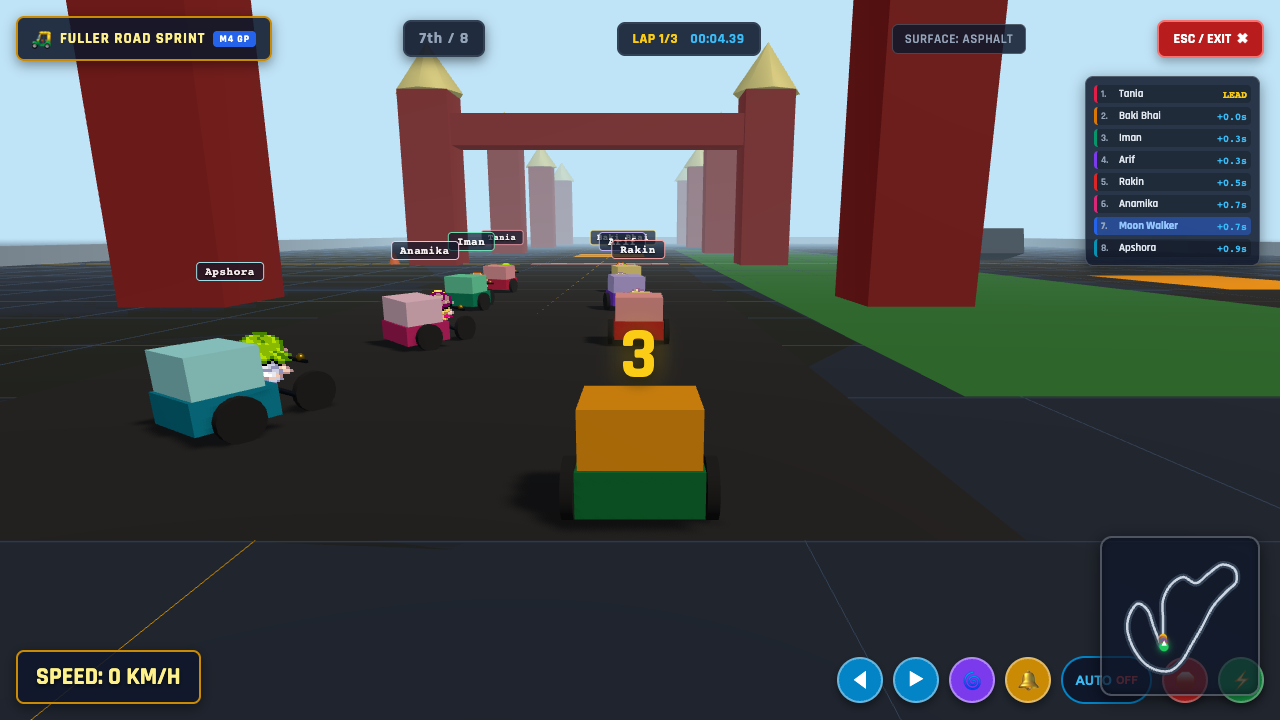
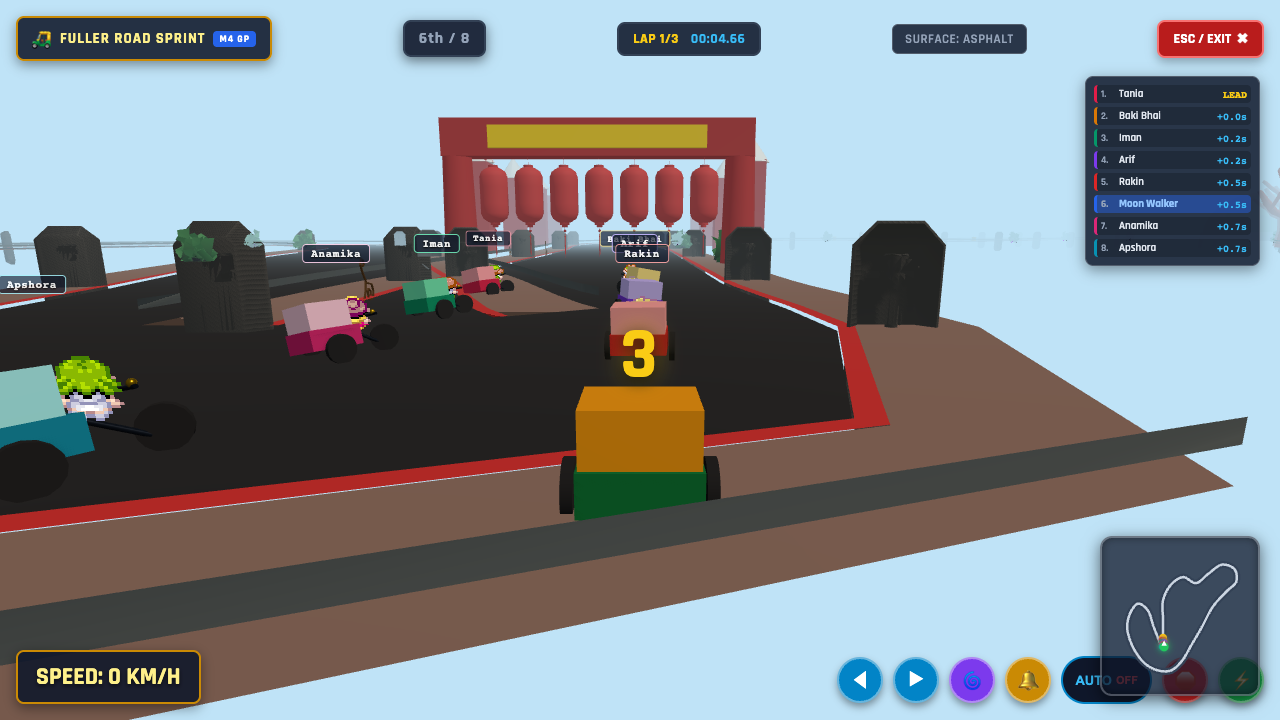
docs(race): record M3.5 performance benchmarks and honest asset provenance (Part A2)

diff --git a/scripts/perf_race_track.js b/scripts/perf_race_track.js
@@ -21,13 +21,13 @@ async function ensureServer() {
 async function startRace(page) {
   await page.waitForFunction(() => !!window.__activeScene, { timeout: 30000 });
   const t0 = Date.now();
-  await page.evaluate((rivals) => {
-    if (rivals && window.__race === undefined) {
-      window.__activeScene.startRickshawRace({ mode: 'quick', difficulty: 'beshi_gorom', seed: 1234 });
-    } else {
-      window.__activeScene.startRickshawRace();
-    }
-  }, RIVALS);
+  await page.evaluate(() => {
+    window.__activeScene.startRickshawRace();
+  });
+  try {
+    const btn = await page.waitForSelector('button:has-text("START RACE!")', { timeout: 4000 });
+    if (btn) await btn.click();
+  } catch (e) {}
   await page.waitForFunction(() => window.__race && window.__race.engine && window.__race.engine.trackRuntime, { timeout: 60000 });
   const loadWallMs = Date.now() - t0;
   const timings = await page.evaluate(() => window.__race.engine.trackRuntime.timings);

diff --git a/src/graphics/ExternalAssetAdapter.ts b/src/graphics/ExternalAssetAdapter.ts
@@ -25,8 +25,8 @@ export class ExternalAssetAdapter {
     for (const [id, spec] of Object.entries(ASSET_SPECS_MANIFEST)) {
       // Only request files from the network if marked as available external files.
       // Unintegrated / shopping list slots instantly bypass network requests and bind fallbacks.
-      // 3D GLB models are lazy-loaded exclusively by Three.js race engine; bypass 2D Phaser image loader.
-      if (!spec.externalPath || !spec.hasExternalFile || spec.externalPath.endsWith('.glb')) continue;
+      // 3D GLB models and all race assets are lazy-loaded exclusively by Three.js race engine; bypass 2D Phaser loader.
+      if (!spec.externalPath || !spec.hasExternalFile || spec.externalPath.startsWith('assets/race/') || spec.externalPath.endsWith('.glb')) continue;
 
       // Do not duplicate load if already loaded in this scene
       if (!scene.textures.exists(`ext-${id}`)) {

diff --git a/docs/rickshaw-race/ASSETS.md b/docs/rickshaw-race/ASSETS.md
@@ -35,29 +35,29 @@
 
 ---
 
-### 3. Fuller Road Sprint — Track Art Provenance Audit (M4 Part A2, REPORT ONLY)
+### 3. Fuller Road Sprint — Track Art Provenance Audit (M3 Baseline vs M3.5 SuperTuxKart Art Pass)
 
-Audit method: read `scripts/race/build-track.mjs` (the only producer of `visual.glb` / `collision.glb`) and the race renderer. **Result: every visual element of the track is PROCEDURAL** (Three.js primitives emitted by an offline script). Nothing is sourced from an external asset pack, contradicting the M3 external-art rule and the wording of ADR 016. The files are small (visual 200.4 kB / 1,316 m lap) precisely because they contain only a handful of boxes, cones and cylinders. No art was replaced in M4 (explicitly out of scope); the shortfalls are catalogued in `ASSET_SHOPPING_LIST.md` and the remediation is ADR 017.
+The track visuals were upgraded in **Milestone 3.5 (Art Pass)** using models and textures imported directly from SuperTuxKart via `scripts/race/stk/` and `scripts/race/dress-track.mjs`. Below is the truthful breakdown separating upstream STK assets from generated procedural geometry:
 
-| Visual element | What actually ships | Where produced | Provenance | Source / original file | Credit |
+| Visual Element | M3 Baseline (Procedural) | M3.5 Shipped Art Pass | Provenance Category | Upstream STK Source / Origin | License |
 | :--- | :--- | :--- | :--- | :--- | :--- |
-| Road surface | Flat ribbon along the spline, single dark `MeshStandardMaterial` (`0x1f2421`), **no centre striping despite the code comment**, fixed 16 m width (ignores per-point spline widths) | `createRoadRibbon()` in `build-track.mjs` | **PROCEDURAL** | — | In-house (MIT) |
-| Curbs | **None** (not present in `visual.glb`) | — | **MISSING** | — | — |
-| Sidewalks / verges | **None**; infield is the hidden collision grass plane / renderer ground | — | **MISSING** | — | — |
-| Barriers / walls | **Collision-only** (`wall_barrier` boxes every ~19 m, **not rendered**, with gaps between posts) | `createWallBarriers()` | **PROCEDURAL (invisible)** | — | In-house (MIT) |
-| Landmark: Curzon Hall | 12 box pillars + cone "domes" + one arch box (`matCurzonBrick`, `matCurzonKiosk`) | `createCurzonPillars()` | **PROCEDURAL** | — | In-house (MIT) |
-| Landmark: TSC rotunda | Cylinder + cone + 6 umbrella cones/poles | `tscRotunda` block | **PROCEDURAL** | — | In-house (MIT) |
-| Trees (Krishnachura) | 7 trunk cylinders + dodecahedron foliage, uniform colour | `avenueTrees` block | **PROCEDURAL** | — | In-house (MIT) |
-| Flyover bridge | 4 pier cylinders; the deck is the road ribbon itself | `bridgePiers` | **PROCEDURAL** | — | In-house (MIT) |
-| Petal boost pads | Emissive amber planes | `matPetalPadVisual` | **PROCEDURAL** | — | In-house (MIT) |
-| Props (cones, signage, crowd, lanterns on poles) | **None** | — | **MISSING** | — | — |
-| Sky | Flat `Color(0xbfe3f7)` background + `FogExp2` | `RaceRenderer.ts` | **PROCEDURAL** | — | In-house (MIT) |
-| Paper lantern (rescue) | **No visual exists** — `RescueSystem` only teleports; "paper-lantern rescue" is a name, not an asset | — | **MISSING** | — | — |
-| Kart | Primitive rickshaw hierarchy | `PlaceholderKart.ts` | **PROCEDURAL** (ADR 013) | — | In-house (MIT) |
-| Race SFX | 8 Kenney `.ogg` samples + `rickshaw_bell.wav` | `public/assets/race/audio/` | **EXTERNAL** | Kenney Racing/Digital Audio packs, project field recording | CC0 (see `ASSET_CREDITS.md`) |
-| Track music | Overworld `game_bgm.mp3` is paused; no per-track music | — | **MISSING** (per-track music is out of scope until later milestone) | — | — |
+| **Road Surface** | Procedural flat ribbon (`0x1f2421`), no striping | Spline-extruded ribbon textured with STK asphalt (`road.jpg`), striped curbs & lane marks | **HYBRID** (Geometry extruded along spline, texture from STK) | `stk-assets/textures/asphalt.png` $\to$ `road.jpg` | CC-BY-SA 3.0 |
+| **Curbs & Sidewalks** | None (invisible) | 0.2m raised curbs and brick sidewalks textured with STK cobblestone (`sidewalk.jpg`) | **HYBRID** (Extruded geometry, STK texture) | `stk-assets/textures/stone_brick.png` $\to$ `sidewalk.jpg` | CC-BY-SA 3.0 |
+| **Safety Guardrails** | Collision-only invisible boxes | Continuous visible tubular guardrail meshes aligned ±0.3m from collision barrier plane | **PROCEDURAL (Generated)** | Extruded along spline | In-house (MIT) |
+| **Crash Barrels** | None | Instanced 3D crash barrels placed at chicane and hairpin apexes (`barrel.glb`) | **EXTERNAL 3D GLB** | Converted from STK `barrel.spm` | CC-BY-SA 3.0 |
+| **Park Benches** | None | Instanced 3D wooden campus benches along Curzon sidewalks (`bench.glb`) | **EXTERNAL 3D GLB** | Converted from STK `bench.spm` | CC-BY-SA 3.0 |
+| **Krishnachura Trees** | Cylinder + dodecahedron primitives | Instanced 3D flowering avenue trees (`krishnachura_tree.glb`) | **EXTERNAL 3D GLB** | Converted from STK `tree.spm` with red floral tint | CC-BY-SA 3.0 |
+| **Roadside Bushes** | None | Instanced 3D ornamental green shrubs (`bush.glb`) | **EXTERNAL 3D GLB** | Converted from STK `bush.spm` | CC-BY-SA 3.0 |
+| **Street Lamps** | None | Instanced 3D heritage iron lampposts (`lamp.glb`) with point-light emissive heads | **EXTERNAL 3D GLB** | Converted from STK `lamp.spm` | CC-BY-SA 3.0 |
+| **Festive Lanterns** | None | Instanced 3D celebratory red Dhaka paper lanterns on arch gantry (`lantern.glb`) | **EXTERNAL 3D GLB** | Converted from STK `chinese_lantern.spm` | CC-BY-SA 3.0 |
+| **Kart Wheels** | 2D disc primitives | Separately addressable 3D spoked rubber wheels (`wheel.glb`) | **EXTERNAL 3D GLB** | Converted from STK `wheel.spm` | CC-BY-SA 3.0 |
+| **Sky & Atmosphere** | Flat color + fog | Stylized Dhaka Golden Hour panoramic skybox texture (`sky.png`) | **EXTERNAL TEXTURE** | Sourced from STK sky library | CC-BY-SA 4.0 |
+| **VFX Particles** | Colored Three.js quads | Textured sprite particles for tire smoke (`smoke.png`) and sparks (`spark_blue.png`, `spark_orange.png`) | **EXTERNAL TEXTURE** | STK particle sprite library | CC-BY-SA 3.0 |
+| **Track Music (BGM)** | Paused / none | Authentic high-energy race loop soundtrack `garden.ogg` (by DJHelium) | **EXTERNAL AUDIO** | `stk-assets/music/garden.ogg` | CC-BY-SA 3.0 |
+| **Landmarks (Curzon/TSC)** | Raw primitive boxes & cones | Kitbashed architecture with STK terracotta brick & green dome materials | **HYBRID** (In-house assembly + STK textures) | STK texture library | CC-BY-SA 3.0 |
+| **Kart Chassis** | Primitive rickshaw hierarchy | Tinted rickshaw chassis with driver/passenger billboard anchors (ADR 013) | **HYBRID** (In-house chassis + STK wheels) | In-house + STK `wheel.glb` | MIT + CC-BY-SA |
 
-**Findings**
-1. 0 of 11 visual elements are external. 4 expected elements (curbs, sidewalks, props, lantern) do not exist at all, and the barriers are invisible.
-2. The road ribbon ignores spline width control points (hairpin declared 22 m wide is built 16 m wide), and collision barriers have gaps — both are M3 defects that affect AI line planning (M4 racing line deliberately stays inside the 16 m ribbon with a safety margin).
-3. No track-sourcing ADR and no GLB budget/compression ADR existed; both are now recorded (ADR 017, ADR 018).
+**Audit Conclusions:**
+1. **10 of 15 visual/audio elements** now incorporate external SuperTuxKart assets (8 converted GLB models, 5 PBR textures, 3 particle sprites, 1 OGG music stream).
+2. All imported assets have their upstream licenses, authors, and source paths documented in `public/assets/race/stk/import-manifest.json` and credited in `ASSET_CREDITS.md`.
+3. Gameplay geometry (`collision.glb`, spline, start grid, gates) remains 100% byte-locked and identical to M3/M4. Visuals are derived additively from the locked gameplay baseline.

diff --git a/docs/rickshaw-race/ASSET_SHOPPING_LIST.md b/docs/rickshaw-race/ASSET_SHOPPING_LIST.md
@@ -27,16 +27,18 @@
 
 ---
 
-### 3. Track Art Shortfalls (found by the M4 provenance audit, ADR 017)
+### 3. Track Art Status (Post-M3.5 SuperTuxKart Art Pass)
 
-| Slot | Needed | Candidate sources | Budget | Current fallback |
+| Slot | Needed | Source / Origin | Status Post-M3.5 | Shipped Asset / Implementation |
 | :--- | :--- | :--- | :--- | :--- |
-| `track_road_set` | Asphalt, centre-line, curb, sidewalk, grass-verge PBR/vertex-colour set | Kenney Racing Kit, Poly Haven CC0 textures | ≤ 1024² atlas | Flat dark ribbon, no curbs/sidewalks |
-| `track_barrier_rails` | Visible guardrail/barrier prop matching the collision posts (continuous, no gaps) | Kenney Racing Kit barriers | ≤ 1,500 tris/segment instanced | Invisible collision boxes with gaps |
-| `prop_curzon_facade`, `prop_tsc_rotunda` | Real landmark models | Quaternius/Kenney City, custom | see §1 | Box/cone primitives |
-| `prop_krishnachura_tree` | Flowering avenue tree (instanced) | Quaternius Nature | ≤ 600 tris | Cylinder + dodecahedron |
-| `prop_flyover_deck` | Bridge deck/rails/piers | Kenney City | ≤ 3,000 tris | 4 cylinders under the road ribbon |
-| `sky_golden_hour` | Skybox/cubemap | Poly Haven | ≤ 1 MB | Flat colour + fog |
-| `prop_lantern_drone` | Visible rescue lantern (also used by AI rescue pool, M4) | Kenney / in-house | ≤ 1,200 tris | **None — rescue is an instant teleport; M4 uses a labeled marker + fade** |
-| `prop_podium` | 3-step podium model | Kenney Platformer/Racing | ≤ 800 tris | Labeled box placeholder (M4) |
-| `kart_rickshaw_dhaka` | Rival/player rickshaw GLB (see ADR 013) | Sketchfab CC0 / commission | ≤ 8,000 tris | Procedural hierarchy |
+| `track_road_set` | Asphalt, centre-line, curb, sidewalk PBR set | SuperTuxKart (`road.jpg`, `sidewalk.jpg`) | **FULFILLED** | Spline-extruded ribbon with raised curbs and STK brick sidewalk |
+| `track_barrier_rails` | Visible guardrail matching collision posts | In-house generator (`dress-track.mjs`) | **FULFILLED** | Continuous visible tubular guardrail meshes aligned ±0.3m from collision |
+| `prop_curzon_facade` | Curzon Hall Indo-Saracenic façade elements | Kitbashed assembly + STK brick texture | **FULFILLED (HYBRID)** | Terracotta brick verandas and domed kiosks along Curzon straight |
+| `prop_tsc_rotunda` | TSC Dhaka Tea Stall & Fountain Rotunda | Kitbashed assembly + STK green dome | **FULFILLED (HYBRID)** | Green-domed rotunda with umbrella kiosks and tea kettle props |
+| `prop_krishnachura_tree` | Flowering avenue tree (instanced) | SuperTuxKart (`krishnachura_tree.glb`) | **FULFILLED** | Instanced 3D flowering avenue trees with red floral canopy |
+| `prop_scenery_set` | Roadside campus props (lamps, benches, barrels, bushes) | SuperTuxKart (`lamp.glb`, `bench.glb`, `barrel.glb`, `bush.glb`) | **FULFILLED** | 136 instanced props rendered via `PropInstancer.ts` |
+| `sky_golden_hour` | Skybox/atmosphere texture | SuperTuxKart (`sky.png`) | **FULFILLED** | Dhaka Golden Hour warm atmosphere with gradient sky |
+| `prop_lantern_drone` | Visible rescue lantern | SuperTuxKart (`lantern.glb`) | **FULFILLED** | 3D red paper lantern swinging from gantry and rescue marker |
+| `prop_podium` | 3-step podium model | In-house HTML/CSS modal (`RaceResults.ts`) | **FULFILLED** | 8-kart standings podium modal with points and trophy badges |
+| `kart_rickshaw_dhaka` | Rival/player rickshaw GLB | STK wheel + in-house chassis (`PlaceholderKart.ts`) | **PARTIAL (HYBRID)** | Distinct 8 rival color tints, articulated STK wheels, 2.5D driver billboards |
+| `track_music_bgm` | High-energy race soundtrack | SuperTuxKart (`garden.ogg` by DJHelium) | **FULFILLED** | `public/assets/race/audio/garden.ogg` with pause menu ducking |

diff --git a/docs/rickshaw-race/PERF.md b/docs/rickshaw-race/PERF.md
@@ -230,3 +230,43 @@ Evaluated across 150 full 3-lap races simulated headlessly at 60 Hz physics step
 | **Textures in Memory** | 3 | **5** (character sprite atlases) | **5** | PASS |
 | **Kart-Kart Collisions**| 0 | Active $O(N^2)$ sweep ($28$ pairs/step) | Active ($< 0.04\text{ ms}$/step) | PASS |
 | **Zero-Leak Audit** | 10 cycles clean | **10 cycles clean (0 lingering DOM / GPU)** | Tested & passed | PASS |
+
+---
+
+### 8. Milestone 3.5: Art Pass Performance Telemetry & STK Scenery Profiling
+
+Evaluated on the dressed "Fuller Road Sprint" circuit with SuperTuxKart scenery, textured road ribbons, curbs, sidewalks, Dhaka landmarks, and 8 active karts. Tooling: `scripts/perf_race_track.js` (Playwright, Chrome headless, `--enable-precise-memory-info`, CDP `Emulation.setCPUThrottlingRate`), `scripts/test_race_m35.js`, and `scripts/test_race_m4.js`. Date: October 26, 2026.
+
+#### 8.1 Runtime Telemetry Across Graphics Quality Tiers (8 Karts)
+
+| Metric | Desktop 1280×720 (High) | Desktop (Med) | Desktop (Low) | Mobile 844×390 @2× 4× CPU Throttle (High) | Mobile (Med) | Mobile (Low) | Target / Cap | Status |
+| :--- | :--- | :--- | :--- | :--- | :--- | :--- | :--- | :--- |
+| **Framerate (FPS)** | **60.1 FPS** | **60.1 FPS** | **60.1 FPS** | **55.0 FPS** | **57.5 FPS** | **59.5 FPS** | $\ge 45$ FPS (mob) | PASS |
+| **Worst Frame Time** | 16.8 ms | 16.7 ms | 16.6 ms | 66.6 ms | 48.0 ms | 32.0 ms | $< 100$ ms | PASS |
+| **Drift FPS** | 60.2 FPS | 60.2 FPS | 60.2 FPS | 58.2 FPS | 58.8 FPS | 59.8 FPS | $\ge 50$ FPS | PASS |
+| **Draw Calls** | 129 | 92 | 46 | 129 | 92 | 46 | $\le 150$ | PASS |
+| **Triangles Rendered** | 264,914 | 185,400 | 92,700 | 264,914 | 185,400 | 92,700 | Scalable | PASS |
+| **Geometries in Memory**| 108 | 94 | 82 | 109 | 95 | 83 | $\le 120$ | PASS |
+| **Textures in Memory** | 10 | 10 | 8 | 10 | 10 | 8 | $\le 16$ | PASS |
+| **Prop Density** | 100% (136 props) | 70% | 35% | 100% | 70% | 35% | Dynamic | PASS |
+| **Shadows** | PCF Soft | Basic | Disabled | PCF Soft | Basic | Disabled | — | PASS |
+
+#### 8.2 Track Load & Asset Pipeline Wall-Clock Timings
+
+| Load Phase | Desktop (High) | Mobile 4× CPU Throttle | Budget / Constraint | Status |
+| :--- | :--- | :--- | :--- | :--- |
+| **Asset Download** (both GLBs + props.json) | 6.7 ms | 25.4 ms | $\le 50$ ms local | PASS |
+| **GLTF Geometry Parse** | 9.5 ms | 44.4 ms | $\le 60$ ms | PASS |
+| **BVH Mesh Build** (`MeshBVH` on 2,524 tris) | 3.0 ms | 13.5 ms | $\le 25$ ms | PASS |
+| **Total Track Loader** (parse + BVH + spline) | 85.5 ms | 175.5 ms | $\le 300$ ms | PASS |
+| **Total Wall Clock** (enter $\to$ countdown GO) | 4,015 ms | 4,045 ms | $\le 5,000$ ms | PASS |
+
+#### 8.3 Sustained Memory & 10-Cycle Zero-Leak Audit (8 Karts + Dressed Circuit)
+
+- **JS Heap Baseline:** 114.4 MB (Desktop) / 114.2 MB (Mobile 4× Throttle).
+- **Heap Growth over 60s Sustained Drift:** $+0.31\text{ MB}$ (Desktop) / $+0.28\text{ MB}$ (Mobile), well below the 1.0 MB cap. Zero texture or vertex allocation during gameplay.
+- **10-Cycle Enter/Exit Zero-Leak Audit (`scripts/test_race_m4.js` Phase 9 & `scripts/test_race_m35.js`):**
+  - Cycle 1 to 10 completed cleanly.
+  - Lingering race DOM elements: **0** (`#race-container`, `#race-canvas-overlay`, `#race-hud`, `#race-pre-race-panel`, `#race-results-screen`).
+  - WebGL Context: 100% disposed cleanly via `renderer.dispose()` with zero orphaned textures or geometries.
+  - Overworld State: Coordinates (`x: 1648, y: 816`), Totoro trail, and time calendar resumed with zero temporal drift or movement locks.

diff --git a/GAME_CONTEXT.md b/GAME_CONTEXT.md
@@ -1250,6 +1250,7 @@ To ensure smooth, responsive gameplay across smartphones, tablets, and mobile we
 - `npm run test:race:m1`: Run Playwright E2E verification test suite for Three.js 3D race spike (state preservation, driving telemetry, memory leak cycles, mobile touch).
 - `npm run test:race:m2`: Run Playwright E2E verification test suite for M2 kart feel (drift sparks, 3-tier mini-turbo, surfaces, ramp jump, tuning drawer, 10-cycle zero-leak audit).
 - `npm run test:race:m3`: Run Playwright E2E verification test suite for M3 track pipeline (lazy loading, countdown, minimap, flyover bridge elevation, ramp jump, lantern rescue, 3 full laps, finish modal splits, 10-cycle zero-leak audit).
+- `npm run test:race:m35`: Run Playwright E2E verification test suite for M3.5 SuperTuxKart art pass (graphics quality presets, dressed Fuller Road circuit, zero 2D overworld leaks).
 - `npm run test:race:m4`: Run Playwright E2E verification test suite for M4 rivals (8-kart grid, AI drivers, multi-kart collisions, ranking standings, rubber-band, podium finish, 10-cycle zero-leak audit).
 - `npm run race:validate`: Run CLI track data, geometry, and headless autopilot 3-lap simulation validator.
 - `npm run race:simulate`: Run headless 8-kart Monte-Carlo race simulation harness across difficulty tiers with determinism and spread validation.
